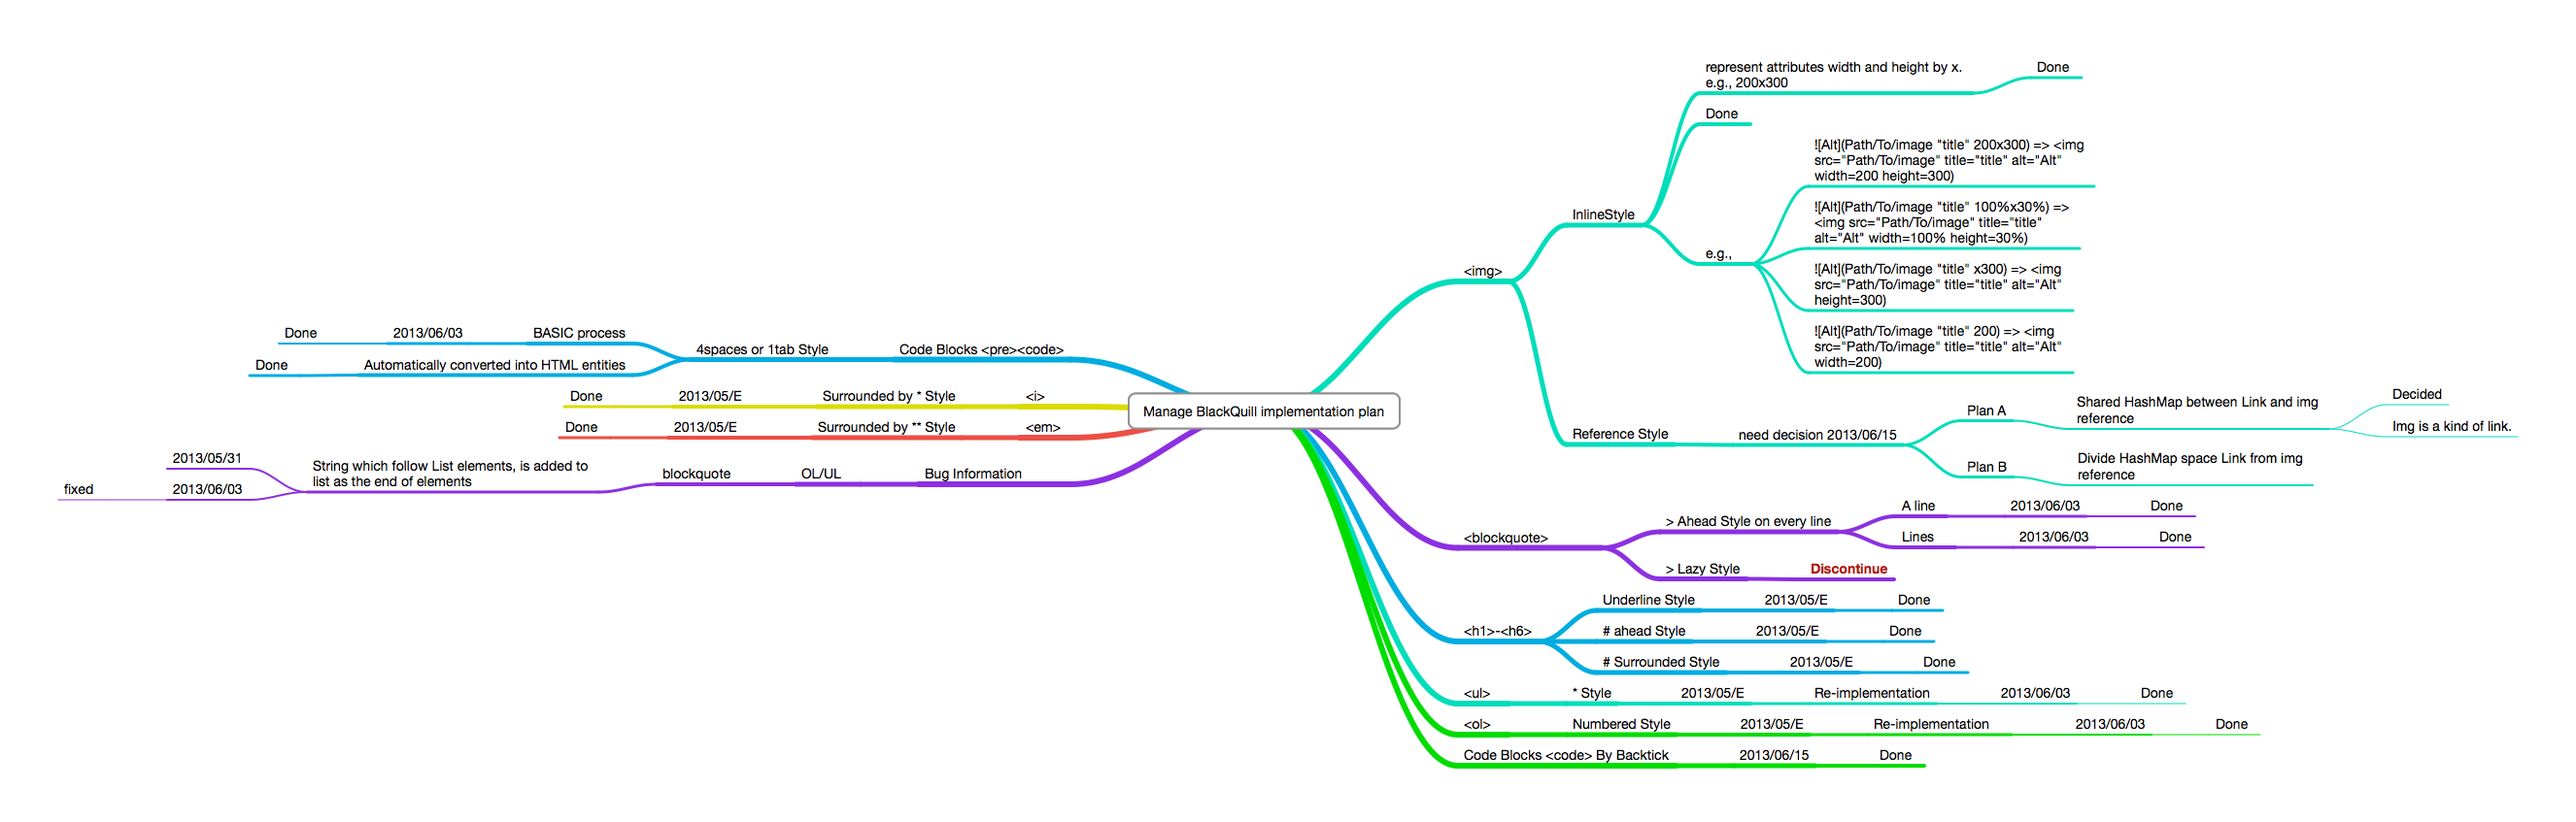
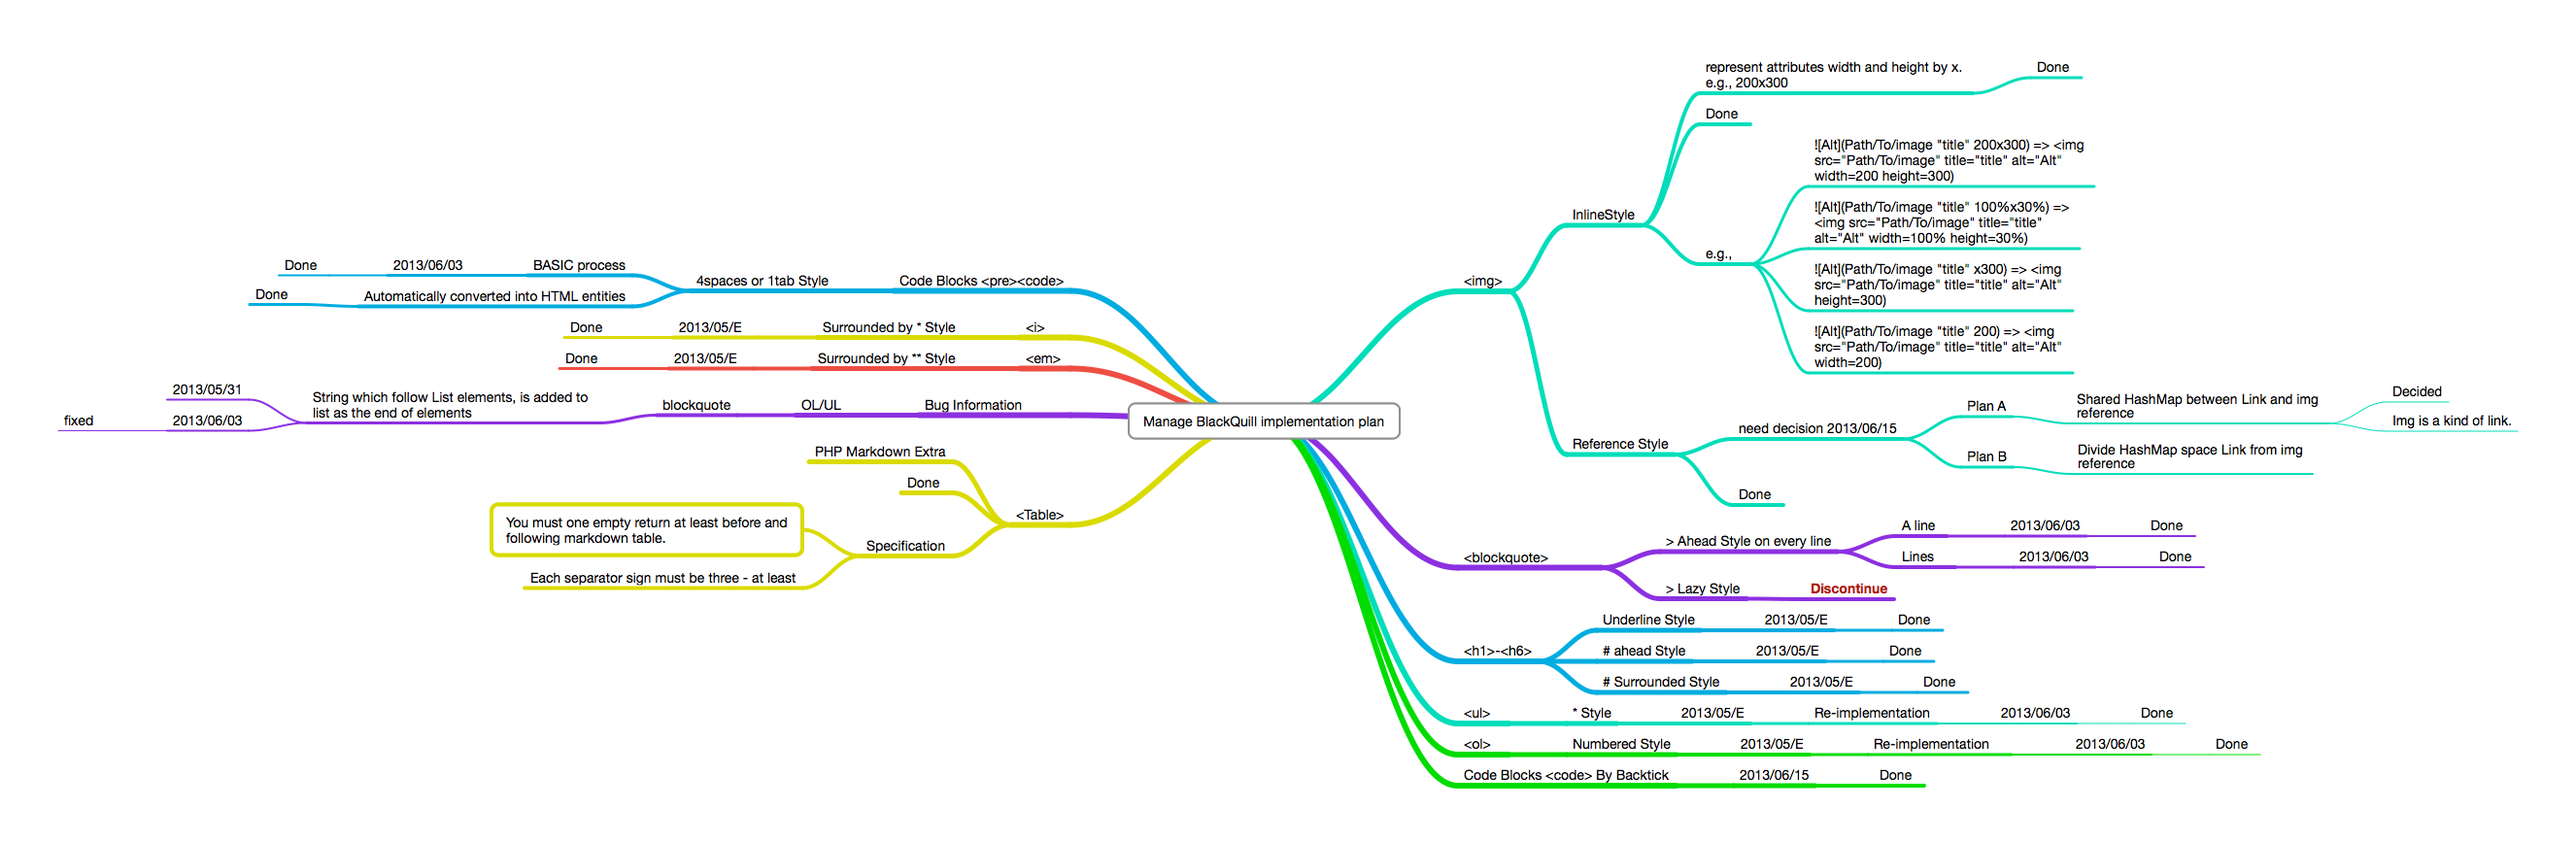
implemented table notation

diff --git a/mdTest/jsTest2.html b/mdTest/jsTest2.html
@@ -4,11 +4,13 @@
 </head>
 <html>
 <body>
-aaaaa<a href="http://example.example.com">http://example.example.com</a> bbbbb
+<p>aaaaa<a href="http://example.example.com">http://example.example.com</a> bbbbb
 aaaa<script type="text/javascript">
 document.write('<a href=\"mailto:example')
 document.write("@")
-document.write("example.com\">MailMe!</a>") </script>bbb
+document.write("example.com\">MailMe!</a>") </script>bbb</p><p>
 
+</p><p>*
+</p>
 </body>
 </html>

diff --git a/mdTest/test10.html b/mdTest/test10.html
@@ -1,0 +1,16 @@
+<!DOCTYPE html>
+<head>
+<title>NO TITLE</title>
+</head>
+<html>
+<body>
+<p>
+<h2>foo</h2></p>
+
+<p><h2>- - - </h2></p>
+
+<p><hr />
+<hr />
+</p>
+</body>
+</html>
